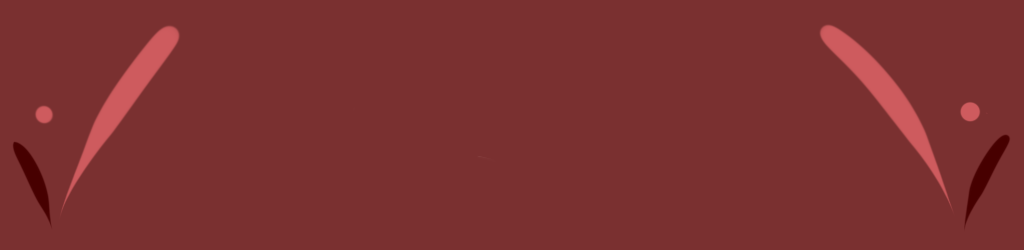
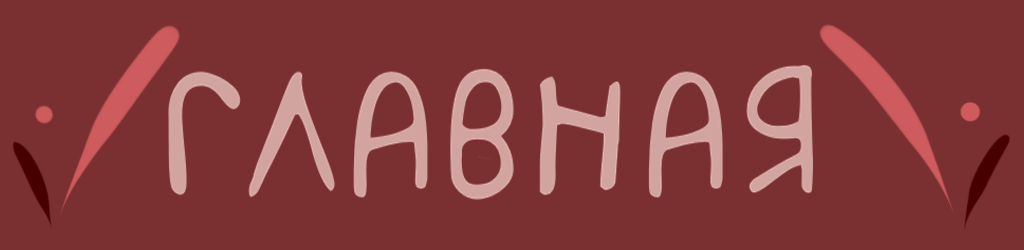
3.4
Новый арт в шапке главной страницы
лист персонажей
файлы страниц скинуты в отдельную папку

Changed region(s): [[0.1562, 0.252, 0.8125, 0.812]]

diff --git a/CharPull/list/form.html b/CharPull/list/form.html
@@ -2,12 +2,12 @@
 <html lang="en">
 <head>
 	<meta charset="UTF-8">
-	<link rel="stylesheet" type="text/css" href="index.css">
+	<link rel="stylesheet" type="text/css" href="../index.css">
 	<title>Анкета</title>
 </head>
 <body>
 	<header>
-		<p class="titul"><img src="images/titul.png"></p>
+		<p class="titul"><img src="../images/titul.png"></p>
 	</header>
 		<p class="hello">
 			Чтобы образ получился достоверным, автор должен четко представлять себе все нюансы биографии и психологии героя. Анкета персонажа поможет автору избежать смысловых дыр и нестыковок. Благодаря разработанному досье вы сможете выстроить логичный сюжет, создадите живого объемного героя.<br>
@@ -18,16 +18,16 @@
 		</p>
 		<nav>
 			<ul>
-				<li><a href="index.html">Главная</a></li>
-				<li class="selected"><a href="form.html">Анкета</a></li>
-				<li><a href="">Персонажи</a></li>
+				<li><a href="../index.html">Главная</a></li>
+				<li class="selected"><a href="../list/form.html">Анкета</a></li>
+				<li><a href="../list/character.html">Персонажи</a></li>
 			</ul>
 		</nav>
-<div id="vk">
- <a href="https://vk.com/himbeere_fondue" title="Щелкните здесь, чтобы перейти в группу художника">
- <img src="images/vk.png" alt="Группа в ВК"/>
- </a>
- </div>
+		<div id="vk">
+			 <a href="https://vk.com/himbeere_fondue" title="Щелкните здесь, чтобы перейти в группу художника">
+			 <img src="../images/vk.png" alt="Группа в ВК"/>
+			 </a>
+		 </div>
 
 	<form action="form.php" method="post">
 		<p>

diff --git a/CharPull/list/character.html b/CharPull/list/character.html
@@ -1,0 +1,29 @@
+<!DOCTYPE html>
+<html lang="en">
+<head>
+	<meta charset="UTF-8">
+	<meta name="viewport" content="width=1024, initial-scale=1.0">
+	<link rel="stylesheet" type="text/css" href="../index.css">
+	<title>Анкета</title>
+</head>
+<body>
+	<header>
+		<p class="titul"><img src="../images/titul2.png"></p>
+	</header>
+		<p class="hello">
+			Персонажи автора из игр и книг
+		</p>
+		<nav>
+			<ul>
+				<li><a href="../index.html">Главная</a></li>
+				<li><a href="../list/form.html">Анкета</a></li>
+				<li class="selected"><a href="list/character.html">Персонажи</a></li>
+			</ul>
+		</nav>
+		<div id="vk">
+			 <a href="https://vk.com/himbeere_fondue" title="Щелкните здесь, чтобы перейти в группу художника">
+			 <img src="../images/vk.png" alt="Группа в ВК"/>
+			 </a>
+ 		</div>
+</body>
+</html>

diff --git a/CharPull/index.html b/CharPull/index.html
@@ -20,9 +20,14 @@
 		<nav>
 			<ul>
 				<li class="selected"><a href="index.html">Главная</a></li>
-				<li><a href="form.html">Анкета</a></li>
-				<li><a href="">Персонажи</a></li>
+				<li><a href="list/form.html">Анкета</a></li>
+				<li><a href="list/character.html">Персонажи</a></li>
 			</ul>
 		</nav>
+		<div id="vk">
+			 <a href="https://vk.com/himbeere_fondue" title="Щелкните здесь, чтобы перейти в группу художника">
+			 <img src="images/vk.png" alt="Группа в ВК"/>
+			 </a>
+ 		</div>
 </body>
 </html>
